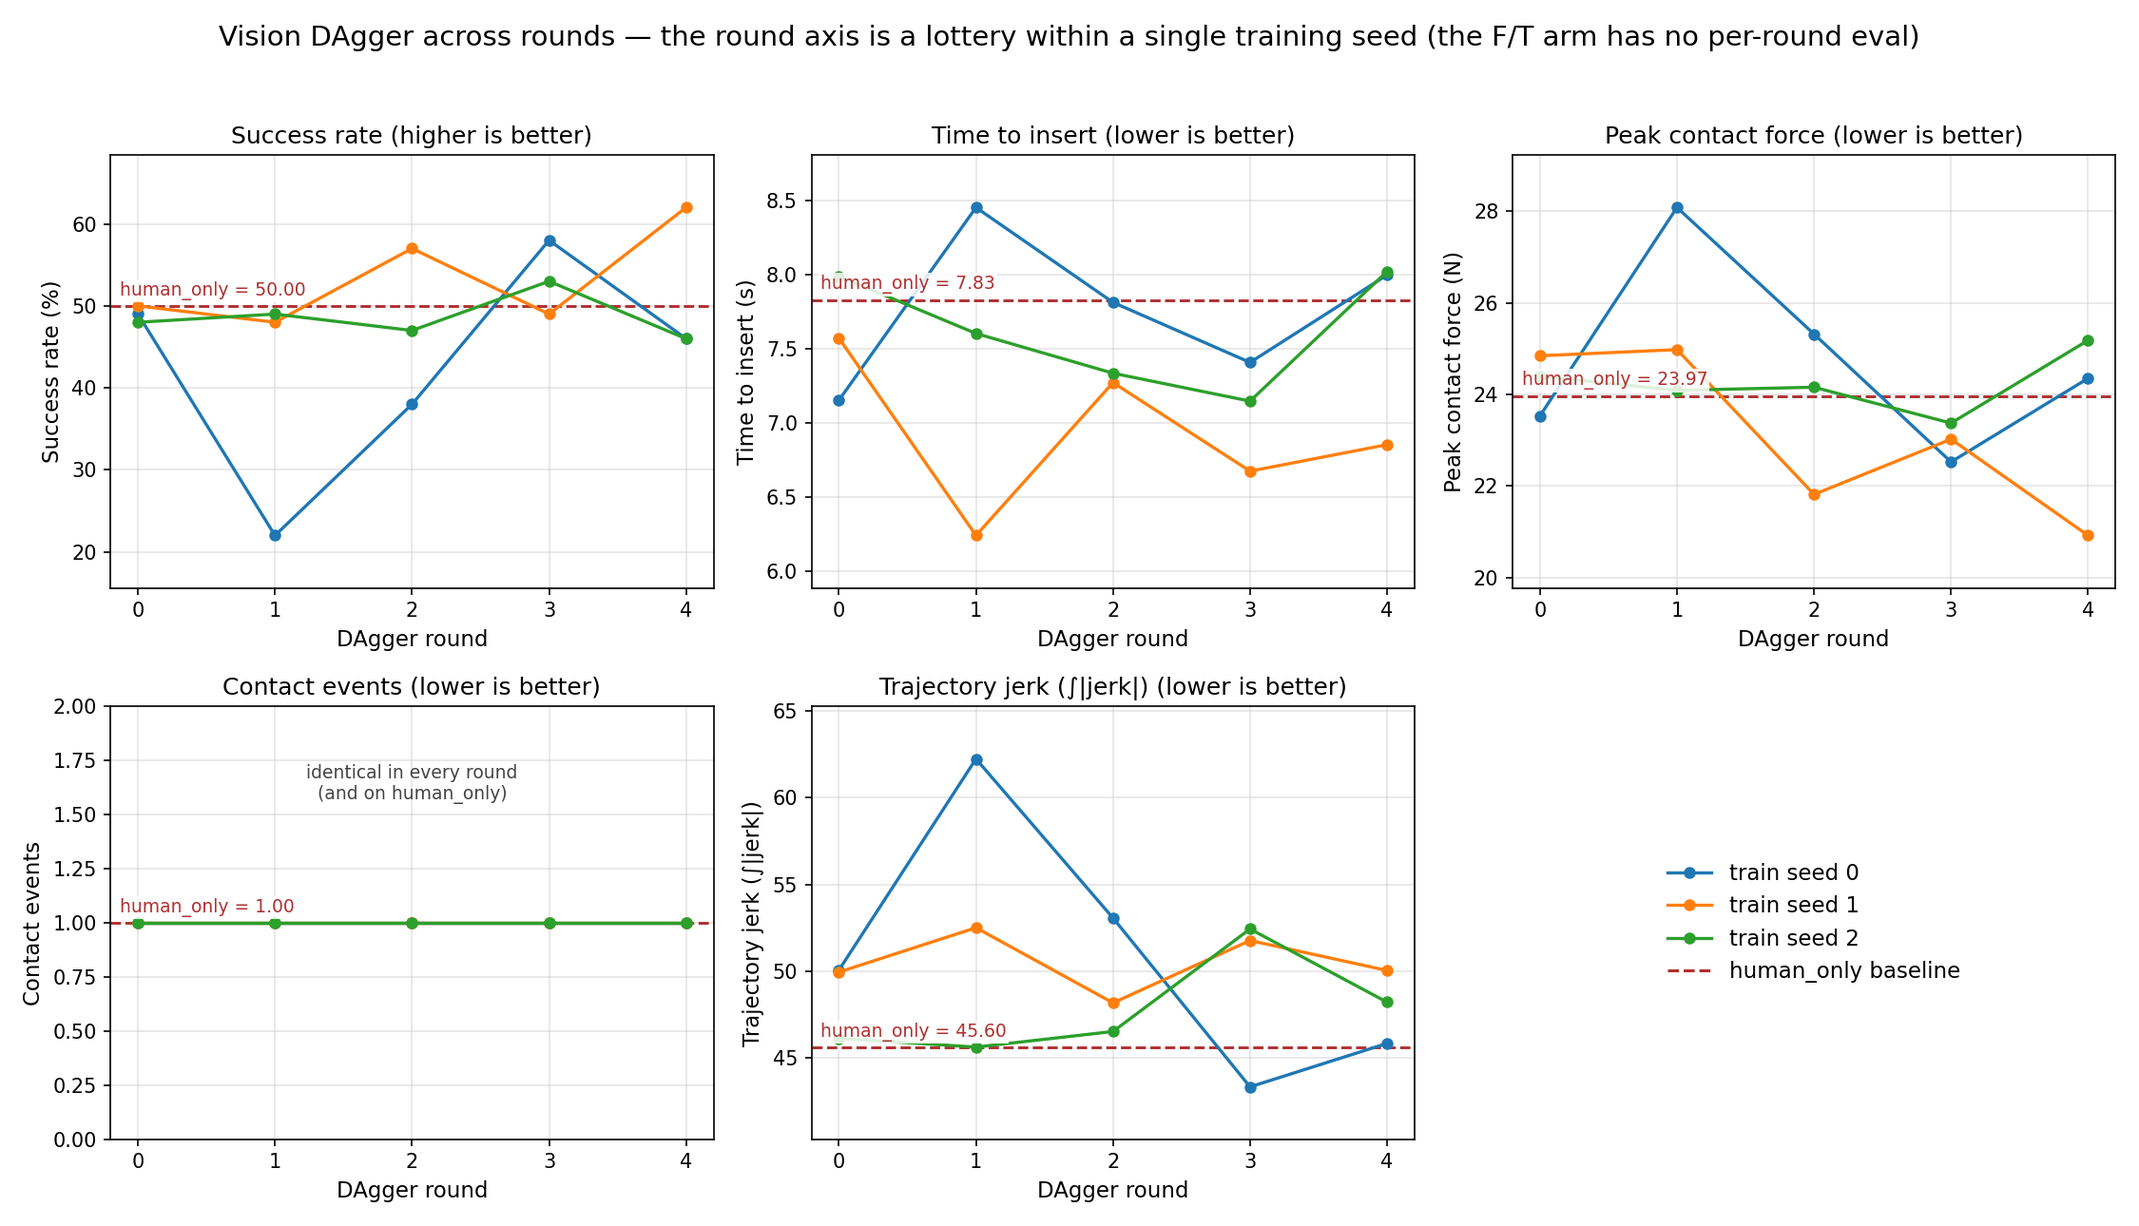
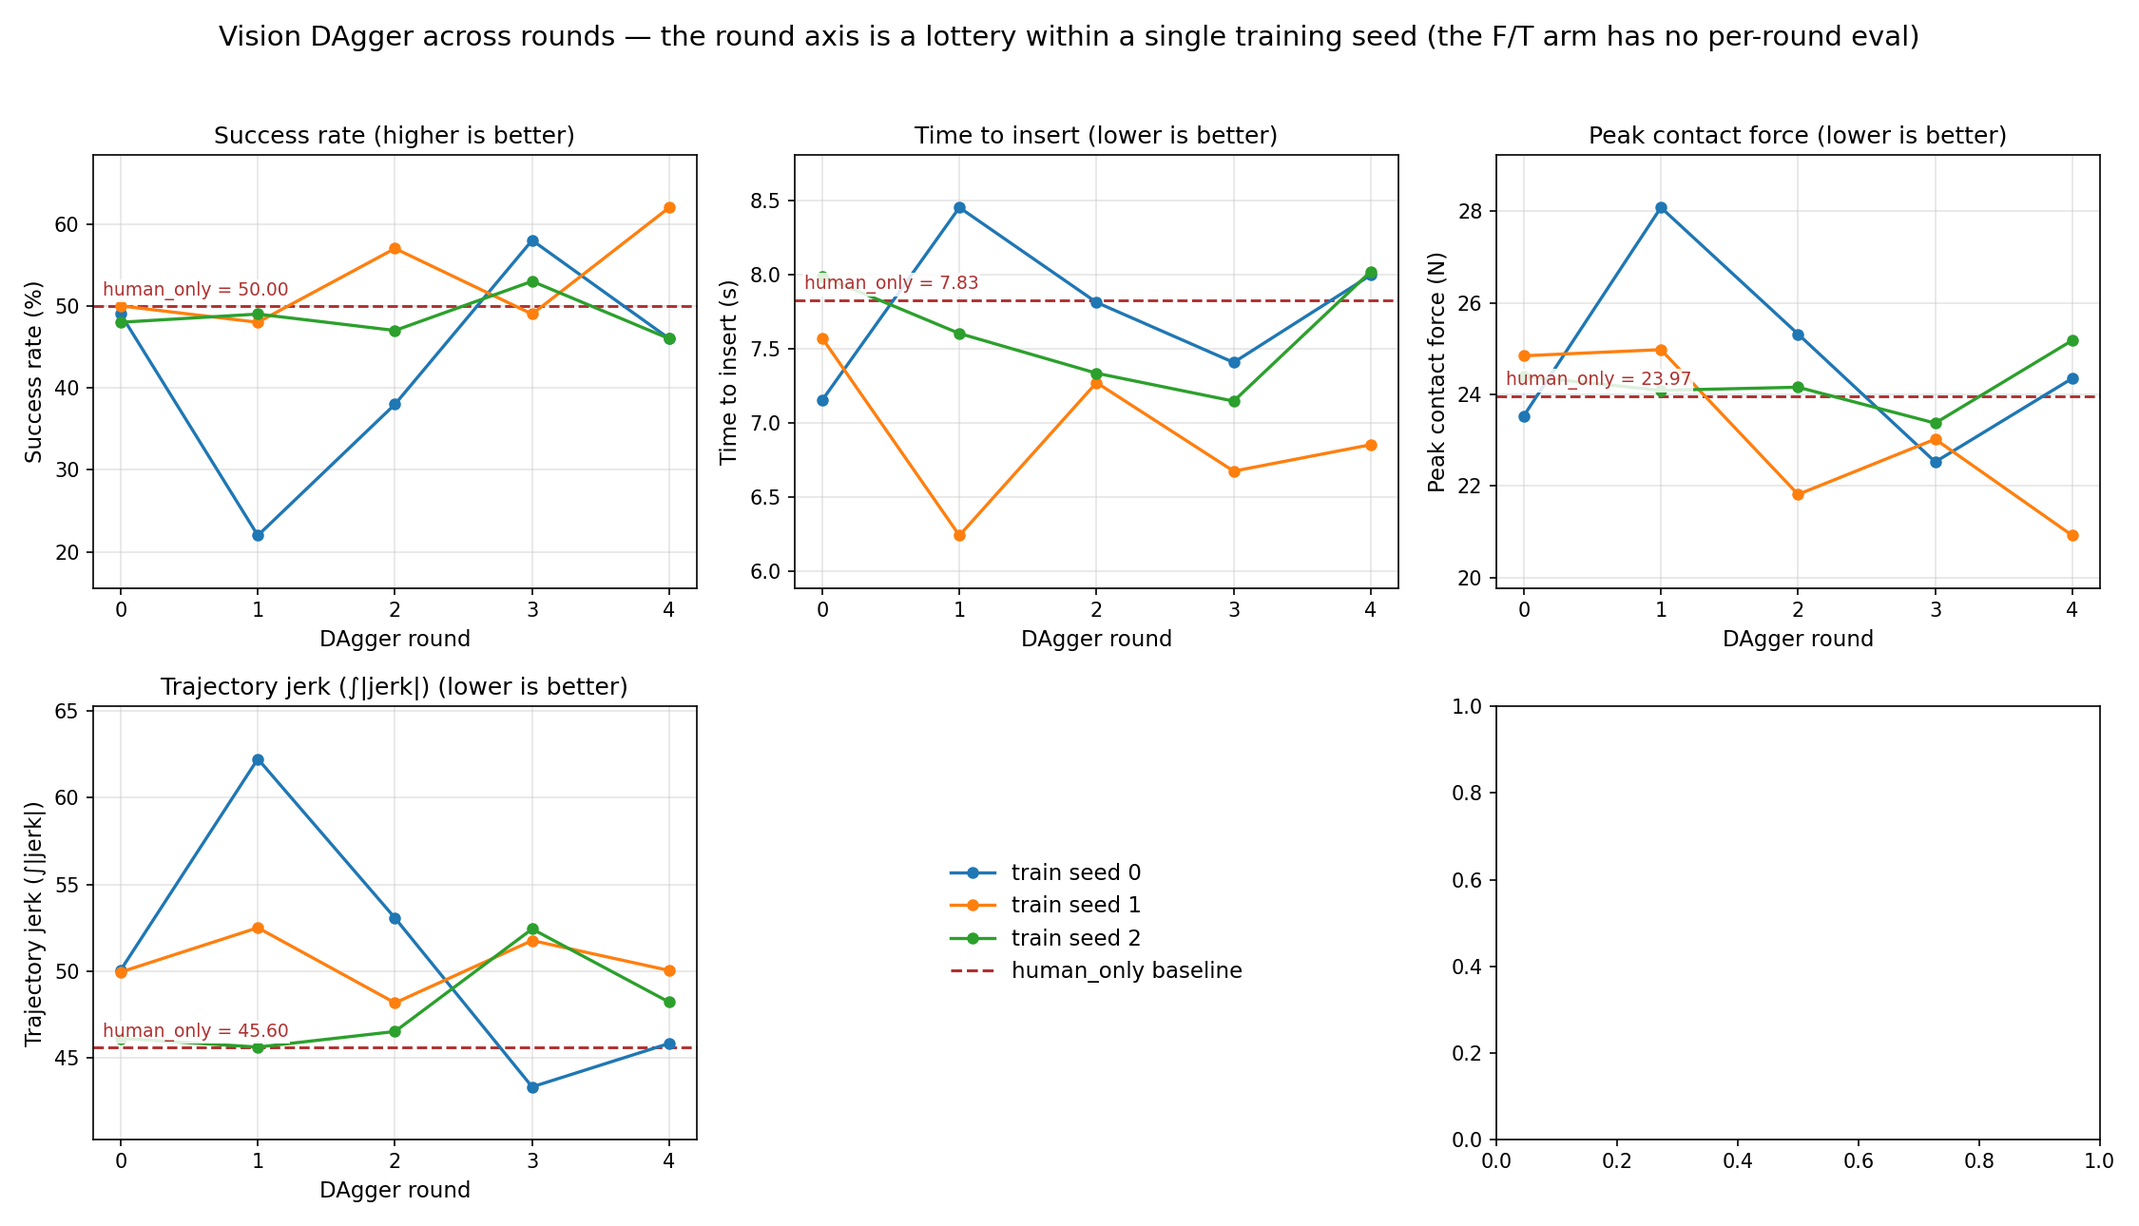
docs: drop contact_events from the reported KPI set
It reads exactly 1.00 on every trial of every arm, `human_only` included — at this
operating point the approach makes one sustained contact and stays in it, so the
metric separates nothing. Removed from CONTINUOUS_KPIS and from the design
document's KPI table.

Still recorded. The observer keeps counting it into trials.csv at no cost, so the
data survives if the operating point ever changes (a lower force floor, or a regime
where the peg is expected to bounce). Both the design document and report.py say
that, so the gap between "five KPIs defined" and "four reported" is explained rather
than silent.

Also drops the self-referential framing from §5.6 — the section now states the force
bound (30 N, the observer's abort cap) and the per-seed jerk figures directly, rather
than narrating them as corrections of earlier wording. Git history already records
what changed.

Tables and all four figures regenerated.
Gate: ruff clean, mypy 88 files, 239 tests.

diff --git a/src/ai_teleop/eval/report.py b/src/ai_teleop/eval/report.py
@@ -59,13 +59,17 @@ class KpiSpec:
     lower_is_better: bool
 
 
-# The four continuous KPIs (success rate is the headline, handled separately).
+# The reported continuous KPIs (success rate is the headline, handled separately).
+#
+# `contact_events` is recorded by the observer and kept in the CSV, but is NOT reported:
+# it reads exactly 1 on every trial of every arm, including `human_only`, so at this
+# operating point it separates nothing. Re-add it here if the operating point changes
+# (a lower force floor, or a regime where the peg is expected to bounce).
 CONTINUOUS_KPIS: tuple[KpiSpec, ...] = (
     KpiSpec("time_to_insert_s", "Time to insert", "s", success_only=True, lower_is_better=True),
     KpiSpec(
         "peak_contact_force", "Peak contact force", "N", success_only=False, lower_is_better=True
     ),
-    KpiSpec("contact_events", "Contact events", "", success_only=False, lower_is_better=True),
     KpiSpec(
         "jerk_integral", "Trajectory jerk (∫|jerk|)", "", success_only=False, lower_is_better=True
     ),

diff --git a/docs/results/phase-1/official_kpi_tables.md b/docs/results/phase-1/official_kpi_tables.md
@@ -14,7 +14,6 @@ Generated by `scripts/dev/official_kpi/kpi_tables.py`; every number is a functio
 | **Time to insert (s)** | ↓ | 7.83 [7.83, 7.83] | 7.91 [7.12, 8.42] | 7.47 [7.28, 7.79] | 7.28 [6.88, 7.47] | 7.46 [7.06, 8.05] | 7.62 [6.85, 8.02] |
 |   ↳ n (seated trials) |  | 50 | 31–58 | 29–60 | 51–53 | 34–54 | 46–62 |
 | **Peak contact force (N)** | ↓ | 23.97 [23.97, 23.97] | 25.79 [23.93, 29.02] | 24.26 [21.21, 28.80] | 22.92 [21.66, 24.07] | 24.68 [23.37, 25.58] | 23.49 [20.92, 25.18] |
-| **Contact events** | ↓ | 1.00 [1.00, 1.00] | 1.00 [1.00, 1.00] | 1.00 [1.00, 1.00] | 1.00 [1.00, 1.00] | 1.00 [1.00, 1.00] | 1.00 [1.00, 1.00] |
 | **Trajectory jerk (∫|jerk|)** | ↓ | 45.60 [45.60, 45.60] | 70.10 [59.62, 95.18] | 52.69 [46.60, 61.89] | 85.12 [45.08, 231.74] | 57.25 [46.01, 78.70] | 48.03 [45.84, 50.04] |
 
 
@@ -52,16 +51,6 @@ Generated by `scripts/dev/official_kpi/kpi_tables.py`; every number is a functio
 | Vision plain | 3 | 2 | 23.97 [23.97, 23.97] | 24.68 [23.37, 25.58] | +0.71 [-0.60, +1.61] | 100 | 0.222–0.525 |
 | Vision DAgger | 3 | 2 | 23.97 [23.97, 23.97] | 23.49 [20.92, 25.18] | -0.48 [-3.04, +1.22] | 100 | 0.005–0.891 |
 
-### Contact events — lower is better
-
-| Recipe | seeds | batch | `human_only` | treatment | paired Δ (mean [min, max]) | n/seed | per-seed p |
-|---|---|---|---|---|---|---|---|
-| FT plain | 5 | 16 | 1.00 [1.00, 1.00] | 1.00 [1.00, 1.00] | +0.00 [+0.00, +0.00] | 100 | — |
-| FT plain (batch 2) | 5 | 2 | 1.00 [1.00, 1.00] | 1.00 [1.00, 1.00] | +0.00 [+0.00, +0.00] | 100 | — |
-| FT DAgger | 5 | 2 | 1.00 [1.00, 1.00] | 1.00 [1.00, 1.00] | +0.00 [+0.00, +0.00] | 100 | — |
-| Vision plain | 3 | 2 | 1.00 [1.00, 1.00] | 1.00 [1.00, 1.00] | +0.00 [+0.00, +0.00] | 100 | — |
-| Vision DAgger | 3 | 2 | 1.00 [1.00, 1.00] | 1.00 [1.00, 1.00] | +0.00 [+0.00, +0.00] | 100 | — |
-
 ### Trajectory jerk (∫|jerk|) — lower is better
 
 | Recipe | seeds | batch | `human_only` | treatment | paired Δ (mean [min, max]) | n/seed | per-seed p |
@@ -81,7 +70,6 @@ Generated by `scripts/dev/official_kpi/kpi_tables.py`; every number is a functio
 | **Success rate (%)** | ↑ | 50.0 [50.0, 50.0] | 45.6 [31.0, 58.0] | 52.0 [51.0, 53.0] | +6.4 [-6.0, +20.0] | 100 | <0.001–0.377 |
 | **Time to insert (s)** | ↓ | 7.83 [7.83, 7.83] | 7.91 [7.12, 8.42] | 7.28 [6.88, 7.47] | +0.07 [-0.18, +0.64] | 24–40 | 0.033–0.993 |
 | **Peak contact force (N)** | ↓ | 23.97 [23.97, 23.97] | 25.79 [23.93, 29.02] | 22.92 [21.66, 24.07] | -2.87 [-5.93, -0.37] | 100 | <0.001–0.695 |
-| **Contact events** | ↓ | 1.00 [1.00, 1.00] | 1.00 [1.00, 1.00] | 1.00 [1.00, 1.00] | +0.00 [+0.00, +0.00] | 100 | — |
 | **Trajectory jerk (∫|jerk|)** | ↓ | 45.60 [45.60, 45.60] | 70.10 [59.62, 95.18] | 85.12 [45.08, 231.74] | +15.02 [-21.74, +136.56] | 100 | <0.001–0.002 |
 
 ### F/T — FT DAgger vs FT plain (batch 2) (5 training seeds matched)
@@ -91,7 +79,6 @@ Generated by `scripts/dev/official_kpi/kpi_tables.py`; every number is a functio
 | **Success rate (%)** | ↑ | 50.0 [50.0, 50.0] | 46.6 [29.0, 60.0] | 52.0 [51.0, 53.0] | +5.4 [-7.0, +22.0] | 100 | <0.001–0.832 |
 | **Time to insert (s)** | ↓ | 7.83 [7.83, 7.83] | 7.47 [7.28, 7.79] | 7.28 [6.88, 7.47] | -0.05 [-0.72, +0.62] | 21–47 | <0.001–0.717 |
 | **Peak contact force (N)** | ↓ | 23.97 [23.97, 23.97] | 24.26 [21.21, 28.80] | 22.92 [21.66, 24.07] | -1.34 [-5.70, +0.45] | 100 | <0.001–0.525 |
-| **Contact events** | ↓ | 1.00 [1.00, 1.00] | 1.00 [1.00, 1.00] | 1.00 [1.00, 1.00] | +0.00 [+0.00, +0.00] | 100 | — |
 | **Trajectory jerk (∫|jerk|)** | ↓ | 45.60 [45.60, 45.60] | 52.69 [46.60, 61.89] | 85.12 [45.08, 231.74] | +32.43 [-12.68, +185.13] | 100 | <0.001–0.296 |
 
 ### Vision — Vision DAgger vs Vision plain (3 training seeds matched)
@@ -101,7 +88,6 @@ Generated by `scripts/dev/official_kpi/kpi_tables.py`; every number is a functio
 | **Success rate (%)** | ↑ | 50.0 [50.0, 50.0] | 41.7 [34.0, 54.0] | 51.3 [46.0, 62.0] | +9.7 [-8.0, +28.0] | 100 | <0.001–0.185 |
 | **Time to insert (s)** | ↓ | 7.83 [7.83, 7.83] | 7.46 [7.06, 8.05] | 7.62 [6.85, 8.02] | +0.04 [-0.02, +0.12] | 25–36 | 0.223–0.958 |
 | **Peak contact force (N)** | ↓ | 23.97 [23.97, 23.97] | 24.68 [23.37, 25.58] | 23.49 [20.92, 25.18] | -1.19 [-4.66, +1.82] | 100 | <0.001–0.322 |
-| **Contact events** | ↓ | 1.00 [1.00, 1.00] | 1.00 [1.00, 1.00] | 1.00 [1.00, 1.00] | +0.00 [+0.00, +0.00] | 100 | — |
 | **Trajectory jerk (∫|jerk|)** | ↓ | 45.60 [45.60, 45.60] | 57.25 [46.01, 78.70] | 48.03 [45.84, 50.04] | -9.22 [-32.86, +4.03] | 100 | <0.001–0.518 |
 
 ## 4. The raw per-training-seed draws
@@ -136,16 +122,6 @@ Generated by `scripts/dev/official_kpi/kpi_tables.py`; every number is a functio
 | Vision plain | 25.09 | 25.58 | 23.37 | — | — | 24.68 | 2.21 |
 | Vision DAgger | 24.35 | 20.92 | 25.18 | — | — | 23.49 | 4.26 |
 
-### Contact events — per training seed
-
-| Recipe | seed 0 | seed 1 | seed 2 | seed 3 | seed 4 | mean | range |
-|---|---|---|---|---|---|---|---|
-| FT plain | 1.00 | 1.00 | 1.00 | 1.00 | 1.00 | 1.00 | 0.00 |
-| FT plain (batch 2) | 1.00 | 1.00 | 1.00 | 1.00 | 1.00 | 1.00 | 0.00 |
-| FT DAgger | 1.00 | 1.00 | 1.00 | 1.00 | 1.00 | 1.00 | 0.00 |
-| Vision plain | 1.00 | 1.00 | 1.00 | — | — | 1.00 | 0.00 |
-| Vision DAgger | 1.00 | 1.00 | 1.00 | — | — | 1.00 | 0.00 |
-
 ### Trajectory jerk (∫|jerk|) — per training seed
 
 | Recipe | seed 0 | seed 1 | seed 2 | seed 3 | seed 4 | mean | range |
@@ -160,20 +136,20 @@ Generated by `scripts/dev/official_kpi/kpi_tables.py`; every number is a functio
 
 **The F/T DAgger arm has no per-round evaluation.** Its round checkpoints under `outputs/policy/runs/dag_ft_s*/dagger_round*/` carry weights and training history but no `trials.csv` — the intermediate rounds were never scored on the held-out walls, and backfilling them was only ever done for vision (LAB-112). So the round sweep below is vision-only, and no claim about how the F/T arm evolved across rounds can be made from this data.
 
-| train seed | round | Success rate (%) | Time to insert (s) | Peak contact force (N) | Contact events | Trajectory jerk (∫|jerk|) | paired Δ success (pp) | p |
-|---|---|---|---|---|---|---|---|---|
-| 0 | 0 | 49.0 | 7.15 | 23.53 | 1.00 | 50.07 | -1.0 | 1.000 |
-| 0 | 1 | 22.0 | 8.45 | 28.08 | 1.00 | 62.24 | -28.0 | <0.001 |
-| 0 | 2 | 38.0 | 7.81 | 25.32 | 1.00 | 53.07 | -12.0 | 0.050 |
-| 0 | 3 | 58.0 | 7.41 | 22.53 | 1.00 | 43.33 | +8.0 | 0.185 |
-| 0 | 4 | 46.0 | 8.00 | 24.35 | 1.00 | 45.84 | -4.0 | 0.572 |
-| 1 | 0 | 50.0 | 7.57 | 24.84 | 1.00 | 49.95 | +0.0 | 1.000 |
-| 1 | 1 | 48.0 | 6.24 | 24.98 | 1.00 | 52.51 | -2.0 | 0.868 |
-| 1 | 2 | 57.0 | 7.27 | 21.82 | 1.00 | 48.18 | +7.0 | 0.248 |
-| 1 | 3 | 49.0 | 6.68 | 23.02 | 1.00 | 51.77 | -1.0 | 1.000 |
-| 1 | 4 | 62.0 | 6.85 | 20.92 | 1.00 | 50.04 | +12.0 | 0.036 |
-| 2 | 0 | 48.0 | 7.99 | 24.40 | 1.00 | 46.13 | -2.0 | 0.856 |
-| 2 | 1 | 49.0 | 7.60 | 24.09 | 1.00 | 45.63 | -1.0 | 1.000 |
-| 2 | 2 | 47.0 | 7.34 | 24.16 | 1.00 | 46.53 | -3.0 | 0.711 |
-| 2 | 3 | 53.0 | 7.15 | 23.37 | 1.00 | 52.44 | +3.0 | 0.701 |
-| 2 | 4 | 46.0 | 8.02 | 25.18 | 1.00 | 48.22 | -4.0 | 0.572 |
+| train seed | round | Success rate (%) | Time to insert (s) | Peak contact force (N) | Trajectory jerk (∫|jerk|) | paired Δ success (pp) | p |
+|---|---|---|---|---|---|---|---|
+| 0 | 0 | 49.0 | 7.15 | 23.53 | 50.07 | -1.0 | 1.000 |
+| 0 | 1 | 22.0 | 8.45 | 28.08 | 62.24 | -28.0 | <0.001 |
+| 0 | 2 | 38.0 | 7.81 | 25.32 | 53.07 | -12.0 | 0.050 |
+| 0 | 3 | 58.0 | 7.41 | 22.53 | 43.33 | +8.0 | 0.185 |
+| 0 | 4 | 46.0 | 8.00 | 24.35 | 45.84 | -4.0 | 0.572 |
+| 1 | 0 | 50.0 | 7.57 | 24.84 | 49.95 | +0.0 | 1.000 |
+| 1 | 1 | 48.0 | 6.24 | 24.98 | 52.51 | -2.0 | 0.868 |
+| 1 | 2 | 57.0 | 7.27 | 21.82 | 48.18 | +7.0 | 0.248 |
+| 1 | 3 | 49.0 | 6.68 | 23.02 | 51.77 | -1.0 | 1.000 |
+| 1 | 4 | 62.0 | 6.85 | 20.92 | 50.04 | +12.0 | 0.036 |
+| 2 | 0 | 48.0 | 7.99 | 24.40 | 46.13 | -2.0 | 0.856 |
+| 2 | 1 | 49.0 | 7.60 | 24.09 | 45.63 | -1.0 | 1.000 |
+| 2 | 2 | 47.0 | 7.34 | 24.16 | 46.53 | -3.0 | 0.711 |
+| 2 | 3 | 53.0 | 7.15 | 23.37 | 52.44 | +3.0 | 0.701 |
+| 2 | 4 | 46.0 | 8.02 | 25.18 | 48.22 | -4.0 | 0.572 |

diff --git a/docs/results/kpi-dashboard.md b/docs/results/kpi-dashboard.md
@@ -338,11 +338,12 @@ compute.
 
 ---
 
-## 5.6 The full KPI board — what the success rate alone hid
+## 5.6 The full KPI board
 
-Success is one of **five** KPIs the harness records. The other four
-(`time_to_insert_s`, `peak_contact_force`, `contact_events`, `jerk_integral`) are measured on the
-same trials of the same evals, and reporting only the headline throws them away. The complete
+Success is one of the KPIs the harness records; `time_to_insert_s`, `peak_contact_force` and
+`jerk_integral` are measured on the same trials of the same evals. (`contact_events` is recorded
+but not reported — it reads exactly 1 on every trial of every arm, `human_only` included, so at
+this operating point it separates nothing.) The complete
 board — every recipe × every metric, mean over training seeds with the observed range, the paired
 comparison against `human_only`, the paired DAgger-vs-plain comparison, and the raw per-seed
 draws — is generated into
@@ -355,10 +356,9 @@ draws — is generated into
 | **Time to insert (s)** | ↓ | 7.83 | 7.91 [7.12, 8.42] | 7.47 [7.28, 7.79] | 7.28 [6.88, 7.47] | 7.46 [7.06, 8.05] | 7.62 [6.85, 8.02] |
 | ↳ n (seated trials) | | 50 | 31–58 | 29–60 | 51–53 | 34–54 | 46–62 |
 | **Peak contact force (N)** | ↓ | 23.97 | 25.79 [23.93, 29.02] | 24.26 [21.21, 28.80] | 22.92 [21.66, 24.07] | 24.68 [23.37, 25.58] | 23.49 [20.92, 25.18] |
-| **Contact events** | ↓ | 1.00 | 1.00 | 1.00 | 1.00 | 1.00 | 1.00 |
 | **∫\|jerk\|** | ↓ | 45.60 | 70.10 [59.62, 95.18] | 52.69 [46.60, 61.89] | 85.12 [45.08, 231.74] | 57.25 [46.01, 78.70] | 48.03 [45.84, 50.04] |
 
-![five interval charts, one per KPI, showing each recipe's mean and min/max over training seeds against the human_only line](phase-1/kpi_spread_by_recipe.png)
+![four interval charts, one per reported KPI, showing each recipe's mean and min/max over training seeds against the human_only line](phase-1/kpi_spread_by_recipe.png)
 
 ***Figure 2 — every KPI, every recipe.** Absolute units, the dashed red line the `human_only`
 value on the same walls. **What to conclude:** the seed spread that swallows the success rate is
@@ -374,22 +374,21 @@ slower**. That gap is survivorship: an arm that seats fewer walls is seating the
 its mean is over a different population. Read the paired column; the marginal column is not a
 comparison.
 
-**Peak contact force — the one KPI where DAgger moves something, and it moves it the right way.**
+**Peak contact force — the one KPI where DAgger moves the mean, not just the spread.**
 Plain BC *raises* peak force above the baseline (FT plain **+1.83 N** paired, per-seed p reaching
 <0.001); both DAgger arms *lower* it (FT DAgger **−1.04 N**, Vision DAgger **−0.48 N**). Compared
 directly against plain BC at matched training seed, **FT DAgger is gentler on all five seeds**
 (mean **−2.87 N**, range [−5.93, −0.37]); against the batch-2 control the mean is **−1.34 N**
 [−5.70, +0.45], so the sign is not unanimous once batch size is held. Vision: **−1.19 N**
 [−4.66, +1.82]. The direction is consistent, the magnitude is a couple of newtons, and none of
-it approaches the hard bound — the eval observer aborts a trial above **30 N**
-(`DEFAULT_FORCE_CAP`, `eval/observer.py`), so *no* arm can exceed that by construction. (The
-earlier "~24 N envelope" phrasing in this section was wrong: 23.97 N is the human baseline, not
-a bound, and FT plain's worst seed averages 29.02 N.)
+it approaches the hard bound. The eval observer aborts a trial above **30 N**
+(`DEFAULT_FORCE_CAP`, `eval/observer.py`), so no arm can exceed that by construction; 23.97 N is
+the `human_only` mean, not a bound, and FT plain's worst seed averages 29.02 N.
 
 **Jerk — the smoothness cost is real, still positive everywhere, and the FT-DAgger number is one
 seed.** Every treatment raises ∫|jerk| above `human_only`; none lowers it. Vision DAgger is
 nearest flat (**+2.43** paired, range [+0.24, +4.44] — statistically non-zero, practically ~5%).
-Two corrections the per-seed view forces:
+Two things visible only per seed:
 
 - **FT DAgger's 85.12 mean is a single outlier.** Its five seeds are 45.08 / 52.64 / **231.74** /
   47.96 / 48.19. Four of them sit at or below the batch-2 plain arm; one seed is 4.5× the others.
@@ -398,14 +397,15 @@ Two corrections the per-seed view forces:
   at batch 2 gives 52.69. Part of the smoothness story previously credited to DAgger is an
   optimisation-noise effect the batch-2 control isolates.
 
-**Contact events — degenerate.** Exactly **1.00** on every trial of every arm, `human_only`
-included. The metric counts hysteresis-debounced rising edges past the contact floor; at this
-operating point the approach makes one sustained contact and stays in it. It discriminates
-nothing here and is reported only so its silence is on the record.
+**Contact events — recorded, not reported.** Exactly **1.00** on every trial of every arm,
+`human_only` included. The metric counts hysteresis-debounced rising edges past the contact floor,
+and at this operating point the approach makes one sustained contact and stays in it, so it
+separates nothing. It stays in the recorded schema and is dropped from the reported set; a lower
+force floor or a bouncing regime would make it informative again.
 
 ### Did DAgger produce any result at all?
 
-![two rows (F/T, vision) by five columns (KPI) of interval charts comparing human_only, plain BC and DAgger](phase-1/dagger_vs_plain.png)
+![two rows (F/T, vision) by four columns (KPI) of interval charts comparing human_only, plain BC and DAgger](phase-1/dagger_vs_plain.png)
 
 ***Figure 3 — the three arms side by side.** Rows are modality, columns are KPI; each panel puts
 `human_only` (red diamond), plain BC and DAgger on one axis, and prints the paired
@@ -431,7 +431,7 @@ The honest three-line answer to "did DAgger do anything":
 
 ### DAgger across rounds
 
-![five panels, one per KPI, each plotting the metric against DAgger round with one line per training seed](phase-1/dagger_rounds_vision.png)
+![four panels, one per reported KPI, each plotting the metric against DAgger round with one line per training seed](phase-1/dagger_rounds_vision.png)
 
 ***Figure 4 — vision DAgger, every round, every seed.** One line per training seed so the reader
 sees the round axis is noisy *within* a seed. **What to conclude:** there is no round trend to

diff --git a/docs/design-document.md b/docs/design-document.md
@@ -478,8 +478,17 @@ not per-step i.i.d. Gaussian, which would reduce the expert to a trivial noise-n
 | **Insertion success** | bool | The headline metric. Scored on *sustained* seating, not first contact. |
 | **Time-to-insert** | s | Efficiency; distinguishes "succeeded" from "succeeded before the budget ran out". |
 | **Peak contact force** | N | Safety proxy — the KPI the architecture *guarantees* rather than measures. |
-| **Contact events before success** | count | How much fumbling preceded seating. |
 | **Trajectory smoothness** | integrated jerk | Whether the assist buys success at the cost of a jittery arm. |
+
+A fifth KPI, **contact events before success**, was defined and is still recorded per trial. It
+is **not reported**: it reads exactly 1 on every trial of every arm, `human_only` included, so at
+this operating point it separates nothing. It stays in the recorded schema in case a future
+operating point makes it informative.
+
+Two of the four have a reading caveat, stated where they are reported (§5.3): time-to-insert is
+defined only on seated trials, so a marginal mean is taken over each arm's own successes and is
+not comparable across arms — the paired figure is. And the paired figures are the ones the
+dashboard quotes.
 
 A caveat the harness carries explicitly: data generation and evaluation share the *seating
 geometry* (`common/seating.py`) but not the *decision rule* — data-gen scores success on the first
